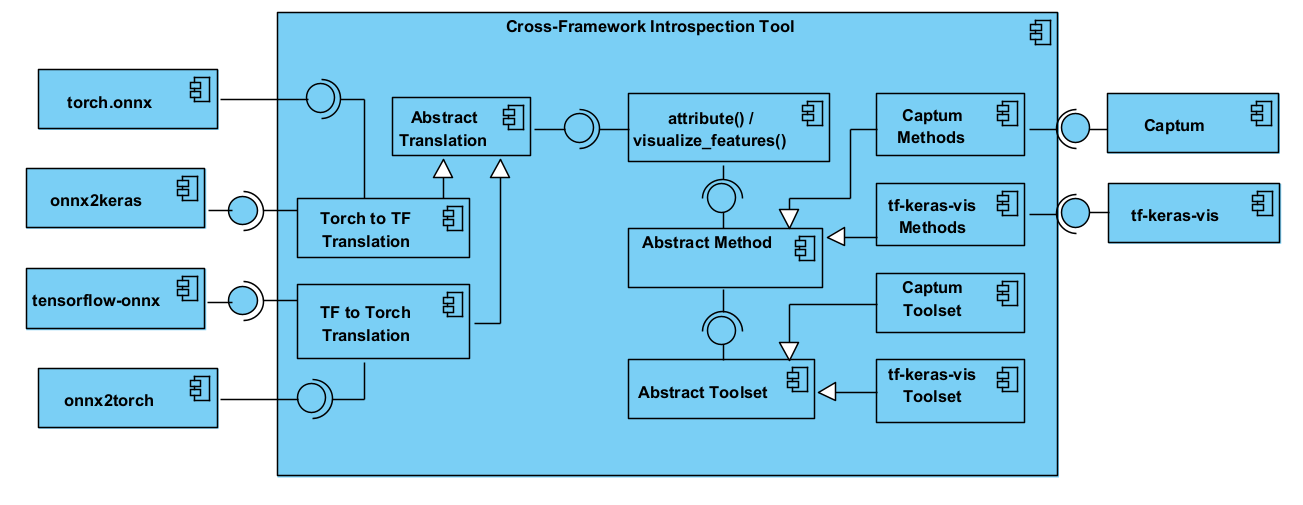
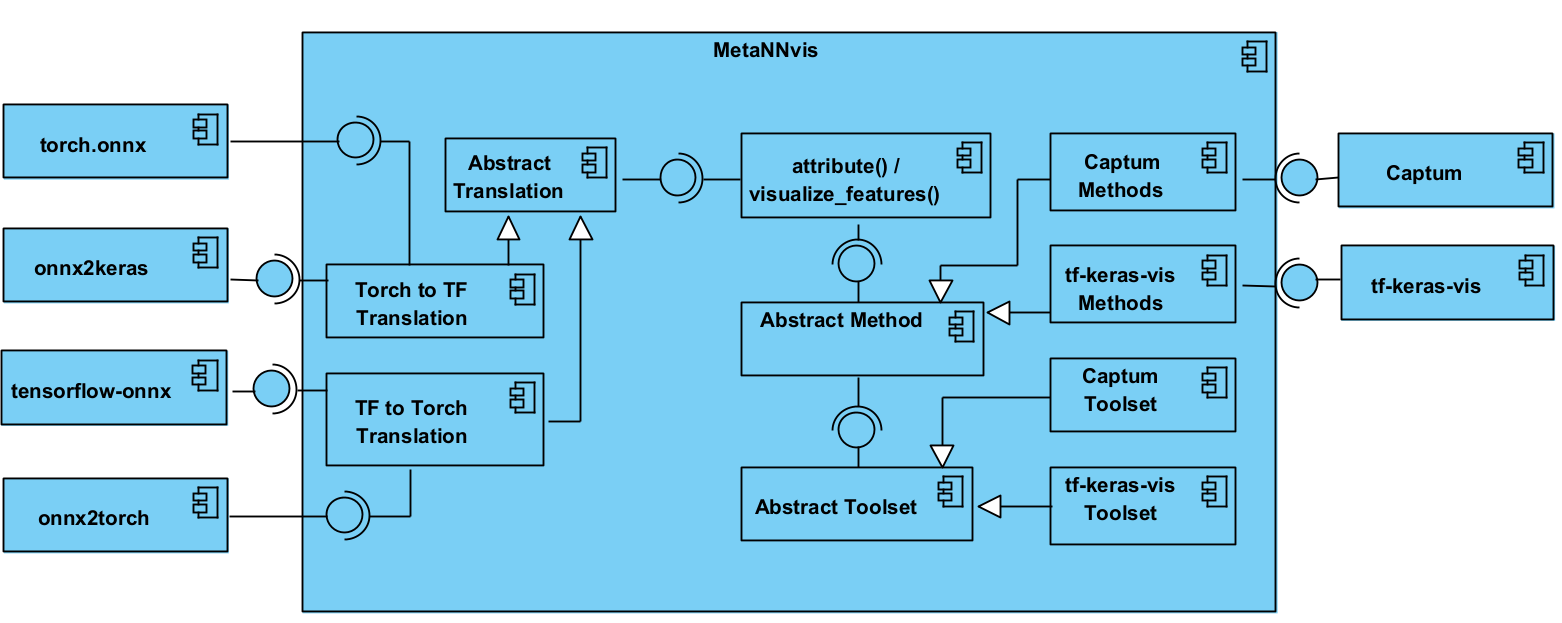
update report

Changed region(s): [[0.0, 0.0, 1.0, 1.0], [0.4605, 0.8614, 0.614, 0.8911]]

diff --git a/unittests/TestCleverHans.py b/unittests/TestCleverHans.py
@@ -23,25 +23,33 @@ class TestCleverHans(unittest.TestCase):
 
     def test_captum(self):
         n_samples = 8
-        methods = [method_keys.INTEGRATED_GRADIENTS, method_keys.SALIENCY, method_keys.DEEP_LIFT,
-                   method_keys.INPUT_X_GRADIENT, method_keys.FEATURE_ABLATION, method_keys.FEATURE_PERMUTATION]
+        methods = [(method_keys.INTEGRATED_GRADIENTS, 'Integrated Gradients'), (method_keys.SALIENCY, 'Saliency'),
+                   (method_keys.DEEP_LIFT, 'Deep Lift'), (method_keys.INPUT_X_GRADIENT, 'Input x Gradient'),
+                   (method_keys.FEATURE_ABLATION, 'Feature Ablation'),
+                   (method_keys.FEATURE_PERMUTATION, 'Feature Permutation')]  # (method_keys.GRAD_CAM, 'Grad-CAM')]
         figure = plt.figure(figsize=(5 * n_samples, 5 * (len(methods) + 1)))
         counter = 1
         for i in range(n_samples):
             figure.add_subplot(len(methods) + 1, n_samples, counter)
             counter += 1
-            plt.xlabel(self.y_test[i])
+            plt.title(f'Label: {self.y_test[i]}')
             plt.imshow(self.x_test[i], cmap="gray")
-        for m in methods:
-            attr = perform_attribution(self.tf_net, m, plot=False, toolset=toolset_keys.CAPTUM,
-                                       exec_args={'inputs': self.x_test[:n_samples], 'target': self.y_test[:n_samples]})
-            print(type(attr))
+        for m, method_label in methods:
+            if m == method_keys.GRAD_CAM:
+                attr = perform_attribution(self.tf_net, m, plot=False, toolset=toolset_keys.CAPTUM,
+                                           exec_args={'inputs': self.x_test[:n_samples], 'relu_attributions': True,
+                                                      'target': self.y_test[:n_samples]})
+            else:
+                attr = perform_attribution(self.tf_net, m, plot=False, toolset=toolset_keys.CAPTUM,
+                                           exec_args={'inputs': self.x_test[:n_samples],
+                                                      'target': self.y_test[:n_samples]})
             for i in range(n_samples):
                 figure.add_subplot(len(methods) + 1, n_samples, counter)
                 counter += 1
-                plt.xlabel(m)
+                plt.title(f'Captum {method_label}')
                 seaborn.heatmap(attr[i].squeeze(), cmap="coolwarm",  # vmin=-attr_total_max, vmax=attr_total_max,
-                                center=0, xticklabels=5, yticklabels=5)
+                                center=0, xticklabels=5, yticklabels=5, square=True,
+                                cbar_kws={'shrink': 0.8, 'pad': 0.05})
                 plt.savefig('clever_hans_results_captum.png')
         plt.show()
 
@@ -70,10 +78,10 @@ class TestCleverHans(unittest.TestCase):
         torch_x = torch_x.reshape((torch_x.shape[0], torch_x.shape[3], torch_x.shape[1], torch_x.shape[2]))
         torch_x = torch.from_numpy(torch_x)
 
-        methods = [  # method_keys.SALIENCY,
-            method_keys.GRAD_CAM,
-            # method_keys.ACTIVATION_MAXIMIZATION
-        ]
+        methods = [method_keys.SALIENCY,
+                   method_keys.GRAD_CAM,
+                   # method_keys.ACTIVATION_MAXIMIZATION
+                   ]
         figure = plt.figure(figsize=(5 * n_samples, 5 * (len(methods) + 1)))
         counter = 1
         for i in range(n_samples):
@@ -90,7 +98,7 @@ class TestCleverHans(unittest.TestCase):
                                                                 'seed_input': torch_x})
             elif m == method_keys.GRAD_CAM:
                 attr = perform_attribution(torch_net, m, plot=False, toolset=toolset_keys.TF_KERAS_VIS,
-                                           dummy_input=torch_x, init_args={'model_modifier': ReplaceToLinear()},
+                                           dummy_input=torch_x, init_args={},
                                            exec_args={'score': CategoricalScore(self.y_test[:8].tolist()),
                                                       'seed_input': torch_x, 'normalize_cam': False,
                                                       'expand_cam': False})
@@ -102,9 +110,15 @@ class TestCleverHans(unittest.TestCase):
             for i in range(n_samples):
                 figure.add_subplot(len(methods) + 1, n_samples, counter)
                 counter += 1
-                plt.title(f'{m}')
+                if m == method_keys.GRAD_CAM:
+                    plt.title(f'tf-keras-vis Grad-CAM')
+                elif m == method_keys.SALIENCY:
+                    plt.title(f'tf-keras-vis Saliency')
+                else:
+                    plt.title(f'tf-keras-vis {m}')
                 seaborn.heatmap(attr[i].squeeze(), cmap="coolwarm",  # vmin=-attr_total_max, vmax=attr_total_max,
-                                center=0, xticklabels=5, yticklabels=5)
+                                center=0, xticklabels=5, yticklabels=5, square=True,
+                                cbar_kws={'shrink': 0.76, 'pad': 0.05})
         plt.savefig('clever_hans_results_tfkerasvis.png')
         plt.show()
 

diff --git a/results/report.md b/results/report.md
@@ -5,23 +5,23 @@ todo: toolname -> MetaNNvis
 
 # Introduction
 
-Over the last years, neural networks have grown ever the more powerful and complex. Their structure allows them to be
+Over the last years, neural networks have grown ever more powerful and complex. Their structure allows them to be
 adapted for a wide range of tasks in which the can provide great results.
 
 One of their caveats however is the limited insight into how these results emerge. For most human users, the inside of a
 neural network is little more than a blackbox which turns input data into, e.g., a classification or prediction.
 
 This is a problem for many use cases. Starting with developers who want to improve their model's performance and need a
-detailed understanding of the workings of each component in order to make the right changes. Up to end users in critical
-settings, such as decision making in medicine, who have to verify a model's results and rely on adequate explanations to
-draw the right conclusions.
+detailed understanding of the workings of each component in order to make the right changes, up to end users in critical
+settings, such as decision making in medicine, who have to verify a model's results and rely on adequate explanations of
+the results to draw the right conclusions.
 
-Different methods, called introspection methods, have been developed to counteract this problem. They try to explain a
-networks's behaviour either by attributing the results to certain parts of input or the network itself or alternatively
-by visualizing features a network has learned. An example for the first case is the Grad-CAM method which allows to
-visualize the contribution of different parts in the input toward a classification (see [Figure 1a](#figure1a)). Feature
-visualization on the other hand can be achieved by optimizing a randomized input towards a certain goal such as
-activating a particular neuron (see [Figure 1b](#figure1b)).
+Different algorithms, called introspection methods, have been developed to counteract this problem. They try to explain
+and visualise a networks's behaviour either by attributing the results to certain parts of either the input or of the
+network itself or alternatively by visualising features a network has learned. An example for attribution is the
+Grad-CAM method which allows to visualise the contribution of different parts in the input toward a classification (
+see [Figure 1a](#figure1a)). Feature visualization on the other hand can be achieved by optimizing a randomized input
+towards a certain goal such as activating a particular neuron (see [Figure 1b](#figure1b)).
 
 
 <div class="row" style="display: flex">
@@ -35,42 +35,43 @@ activating a particular neuron (see [Figure 1b](#figure1b)).
 </div>
 </div>
 
-For the users' convenience, implementations of many of these methods have been packaged and made publicly available in
-toolsets like [Captum](https://captum.ai/) or [tf-keras-vis](https://github.com/keisen/tf-keras-vis). One limitation of
-these preimplemented introspection methods is that they depend on a specific framework
-like [PyTorch](https://pytorch.org/) or [TensorFlow](https://www.tensorflow.org/).
+For users' convenience, implementations of many of these methods have been packaged and made publicly available in
+toolsets like [Captum](https://captum.ai/) or [tf-keras-vis](https://github.com/keisen/tf-keras-vis). These libraries
+save users the effort of implementing all methods by themselves and make it easy to switch between and compare different
+methods. One limitation of these preimplemented introspection methods however is that they are bould to a specific model
+framework, e.g. [PyTorch](https://pytorch.org/) or [TensorFlow](https://www.tensorflow.org/).
 
 In practice, this may lead to situations like the following:
 Imagine you have trained a model in TensorFlow and now want to apply the attribution method Integrated
 Gradients [(Sudararajan, 2017)](#sundararajan2017) to it. You find out that this particular method is already
 implemented in Captum, a PyTorch toolset, but not in the TensorFlow toolset tf-keras-vis. This means you have three
-options: Rebuild your model in PyTorch so you can use the PyTorch toolset, implement the method yourself or not don't
-use the method at all.
+options: Rebuild your model in PyTorch so you can use the PyTorch toolset, implement the method yourself or don't use
+the method at all.
 
-None of these options are optimal. It would be better by far to instead have a forth option that lets you use the
-already existing Integrated Gradients implementation independent of the framework it was implemented in. Realising this
-option is the idea behind Cross-Framework Introspection.
+None of these options is optimal. It would be more convenient and efficient to re-use the already existing Integrated
+Gradients implementation while keeping the TensorFlow model. For bridging the gap between model and introspection
+method, we have developed the tool **MetaNNvis**.
 
-To achieve this, we have built a tool that acts as an interface between the user and the introspection methods. The user
-just puts in their model and their favoured introspection method. Based on that, the tool selects an implementation,
-and, if the framework of the model does not fit the implementation's framework, it translates the model and additional
-arguments into the right framework. Finally, it executes the introspection method and returns the result.
+MetaNNvis acts as an interface between the user and the introspection methods. The user just puts in their model and
+their favoured introspection method. Based on that, the tool selects an implementation, and, if the framework of the
+model does not fit the implementation's framework, it translates the model and additional arguments into the right
+framework. Finally, it executes the introspection method and returns the result.
 
-Concretely, the tool supports methods from tf-keras-vis and Captum, but has also been designed to be extended to other
+Concretely, the tool supports methods from tf-keras-vis and Captum, but has also been designed to be extendable to other
 toolsets if needed.
 
-In the following, we will describe the mentioned introspection toolset and the different components of the translation
-process between PyTorch and TensorFlow. Afterwards, we will describe the tool's structure and functionality in more
-detail. Finally, we will evaluate the tool and use it to compare different implementations of the same introspection
-methods.
+In the following, we will first describe the supported introspection toolsets. Afterwards, we will describe the tool's
+features and functionality in more detail (Section [MetaNNvis Implementation](#metannvis-implementation)). Finally, we
+will evaluate the tool and use it to compare different implementations of the same introspection methods (
+Section [Evaluation](#evaluation)).
 
 # Supported Toolsets
 
-The goal of cross-framework introspection is to connect models and introspection methods from different frameworks.
-Since TensorFlow, more precisely Tensorflow 2.0, and PyTorch are currently the most used machine learning frameworks,
-methods and models from at least these two frameworks should be supported. Therefore, we have chosen one toolset from
-each framework, Captum from PyTorch and tf-keras-vis from TensorFlow. We will take a closer look at them in the
-following:
+The goal of this project is to connect models and introspection methods from different frameworks. Since TensorFlow,
+more precisely Tensorflow 2.0, and PyTorch are currently the most used machine learning frameworks, the interaction
+between models and methods from these two frameworks is the most interesting application for our approach. Therefore, we
+have chosen one toolset from each framework, Captum from PyTorch and tf-keras-vis from TensorFlow. We will take a closer
+look at them in the following:
 
 ## Captum
 
@@ -91,7 +92,7 @@ for image inputs and has been designed to be light-weight and flexible.
 ## Method selection
 
 Especially Captum implements a large number of methods: 36 in total, counting primary, layer and neuron variants
-seperately. In order to limit the scope of this project, I have chosen prioritize the introspection methods provided by
+seperately. In order to limit the scope of this project, we have chosen prioritize the introspection methods provided by
 Captum and tf-keras-vis. The result can be seen in the table below.
 
 | Method  | Category  | Priority  |
@@ -140,10 +141,12 @@ as well. For this reson, GradCAM for example has a higher priority than the Grad
 which are known to fail sanity checks ([Adebayo et al., 2018](#adebayo2018); [Sixt et al., 2020](#sixt2020)) such as
 Guided Backpropagation have been excluded.
 
-# Cross-Framework Introspection
+# MetaNNvis Implementation
+
+## Requirements
 
 To accomplish the task of making the selected methods from Captum accessible in TensorFlow and the tf-keras-vis methods
-accessible in PyTorch, our tool MetaNNvis has to have the following features:
+accessible in PyTorch, MetaNNvis has to have the following features:
 
 - **Model translation between PyTorch and TensorFlow**: The tool's most crucial component is the ability to transform a
   PyTorch model into a TensorFlow model and vice versa. The translated model should behave equivalent or at least very
@@ -170,12 +173,14 @@ Beside these strictly neccessary features, there are a few additionally requirem
 - **Plotting of results**: The results of introspection methods are typically multi-dimensional arrays which need to be
   visualised to be human-understandable. This is a task which can be provided by tool as well.
 
+## Components
+
 To achieve these goals, we have decided on the structure shown in [Figure 2](#figure2).
 
 <div class="row" style="display: flex">
 <div class="column" style="padding: 10px;">
 <img id="figure2" src="report_images/cfi_components_09-08-22.png" alt="Figure 2: Internal and external components of the cross-framework introspection tool." width=100%/>
-<div text-align=center class="caption">Figure 2: Internal and external components of the cross-framework introspection tool.</div>
+<div text-align=center class="caption">Figure 2: Internal and external components of MetaNNvis.</div>
 </div>
 </div>
 
@@ -209,13 +214,16 @@ Regarding the internal structure, note that the translation classes, as well as 
 superclasses which provide an interface to the other functions. This ensures the tool's extensibility, since new
 methods, toolsets or even complete frameworks can be added as new subclasses with minimal additional effort.
 
+## Workflow
+
 Now, let's take a look at how these components work together when a user wants to execute an introspection method with a
 model from an incongruous framework, i.e., a user executes a method call like the following:
 
     attribute(torch_model, method_key='grad_cam', toolset='tf-keras-vis', init_args={'layer': torch_model.conv2}, exec_args={'score': CategoricalScore(mnist_y.tolist()), 'seed_input': mnist_x, 'normalize_cam': False})
 
-Note that the user specifically requests a tf-keras-vis method, but gives the tool a PyTorch model. How this or similar
-calls are handled is described in [Figure 3](#fig:activity_diagram).
+Note that the user specifically requests a tf-keras-vis method, but gives the tool a PyTorch model. Thus, even if a
+Grad-CAM implementation is available in PyTorch, the tool has to select the TensorFlow implementation. How this or
+similar calls are handled is described in [Figure 3](#fig:activity_diagram).
 
 First, all methods matching the provided `method_key` have to be retrieved. This is either done via one of the toolset
 classes or, if the `toolset` parameter is not provided, methods from all toolset classes are taken into account. If no
@@ -223,7 +231,7 @@ method for the given `method_key` is found, an exception is raised. If multiple 
 and one method is selected, with priority given to methods requiring no model translation. This can happen if the same
 introspection method is implemented in different toolsets, but the user didn't specify a toolset.
 
-Next, the tool checks if all required arguments for the selected introspection method are present and raises an
+Next, MetaNNvis checks if all required arguments for the selected introspection method are present and raises an
 exception if not. After that, it aligns the input model and data with the selected method. For this, first, it is
 checked if the model belongs to one of the known frameworks (either TensorFlow or PyTorch). If it belongs to none, an
 exception is raised.
@@ -238,8 +246,8 @@ provide when calling `attribute()` for the first time. Thus, the model gets tran
 alongside a list of available layers. The user can then choose a layer and call another
 method, `finish_execution_with_layer()` to resume the process.
 
-Finally, the translated model and arguments are given to the introspection method and the result is return. Optionally,
-a plot of the results is created as well.
+Finally, the translated model and arguments are given to the introspection method and the result is returned.
+Optionally, a plot of the results is created as well.
 
 <div class="row" style="display: flex">
 <div class="column" style="padding: 10px;">
@@ -254,35 +262,36 @@ information on how to extend the tool with your own introspection methods.
 # Evaluation
 
 We have conducted tests to verify that the model translation works as intended, i.e., that for different models and
-inputs, the outputs of models and their translations only differ by a neglible amount several orders of magnitude lower
-than the output. This difference can be attributed to numerical errors during the translation process. From the strong
-similarity of the outputs, we can conclude that introspection results for one model are applicable to the other model as
-well.
+inputs, the outputs of models and their translations only differ by an amount which is several orders of magnitude lower
+than the output and thus neglegible. This difference can be attributed to numerical errors during the translation
+process. From the strong similarity of the outputs, we can conclude that introspection results for one model are
+applicable to the other model as well.
 
 Furthermore, we evaluated whether the method yield expectable results for a simple clever hans predictor (
 see [Clever Hans](#clever-hans)) and compared the Saliency and Grad-CAM implementations of Captum and tf-keras-vis (
 see [Comparison](#comparison-between-toolsets)).
 
-Additional visualisations of our results can be found in the projects [results folder](../results/). #todo clean up
-results
+Additional visualisations of our results can be found in the projects [results folder](../results/).
 
 ## Clever Hans
 
 In order to evaluate if the results gained from executing an introspection method on a translated model actually yield
 useful insights into the original model, we trained a CNN model on a modified MNIST
 dataset ([LeCun et. al., 1998](#lecun1998)) with permutated labels and 5x5 grey squares in the top left corner, their
-lightness correlating with the newly assigned label. This way, we can safely assume that the model only learns to use
+brightness correlating with the newly assigned label. This way, we can safely assume that the model only learns to use
 the top left corner when making a prediction.
 
 We then used the trained model to test different attribution methods. For the Captum methods, the model has been
-implemented and trained in TensorFlow and for the tf-keras-vis methods in PyTorch.
+implemented and trained in TensorFlow and for the tf-keras-vis methods in PyTorch. Thus, all methods are executed on a
+model which had to be translated from a different framework.
 
-The results for the primary attribution methods can be seen in [Figure 4](#fig:clever_hans). As can be seen, most
-methods indicate a strong focus of the network of the top left corner.
+The results for the primary attribution methods are shown in [Figure 4](#fig:clever_hans). As can be seen, most methods
+indicate a strong focus of the network of the top left corner.
 [Figure 5](#fig:clever_hans_layer) shows the results of layer attribution methods for the first convolutional layer.
 Here, out of 20 channels, some are only react to the to top left corner (such as channels 16 and 18) while some show a
 random behaviour (like channel 19) or no activation at all.
 
+TODO: update figures
 <div class="row" style="display: flex">
 <div class="column" style="padding: 10px;">
 <img id="fig:clever_hans" src="report_images/clever_hans_results_collage.png" alt="Figure 4: A modified MNIST image where the label depends on the square in the top left corner and the results of different attribution methods applied to a CNN and this image." width=100%/>
@@ -303,10 +312,10 @@ model as well as for methods working for a certain layer (or neuron in that laye
 
 ## Comparison between Toolsets
 
-Another interesting use case for Cross-Framework Introspection is comparing implementations of the same methods in
-different frameworks. Since we can translate models between frameworks, we can apply implementations from Captum and
-tf-keras-vis to the same model. Specifically, we have compared the implementations of GradCAM and Saliency with models
-from both PyTorch and Tensorflow, since these methods are implemented in both toolsets.
+Another interesting use case for metaNNvis is comparing implementations of the same methods in different frameworks.
+Since we can translate models between frameworks, we can apply implementations from Captum and tf-keras-vis to the same
+model. Specifically, we have compared the implementations of Grad-CAM and Saliency with models from both PyTorch and
+Tensorflow, since these methods are implemented in both toolsets.
 
 ### Saliency
 
@@ -360,7 +369,14 @@ interpolation.
 
 # Conclusion
 
-todo
+We have presented MetaNNvis, a tool for using introspection methods across different frameworks. MetaNNvis can translate
+between PyTorch and TensorFlow models and supports introspection methods from the toolsets Captum and tf-keras-vis. It
+provides a uniform interface for accessing these methods and can easily be extended towards other toolsets.
+
+We have shown that the results of introspection methods applied to a translated model yield meaningful insights for the
+original model by applying MetaNNvis to a basic Clever-Hans-predictor. Also, we have used our tool to compare the Captum
+and tf-keras-vis implementations of Saliency and Grad-CAM, showing that both implementations can provide the same
+results, but both toolsets have different default parameters.
 
 # Bibliography
 
